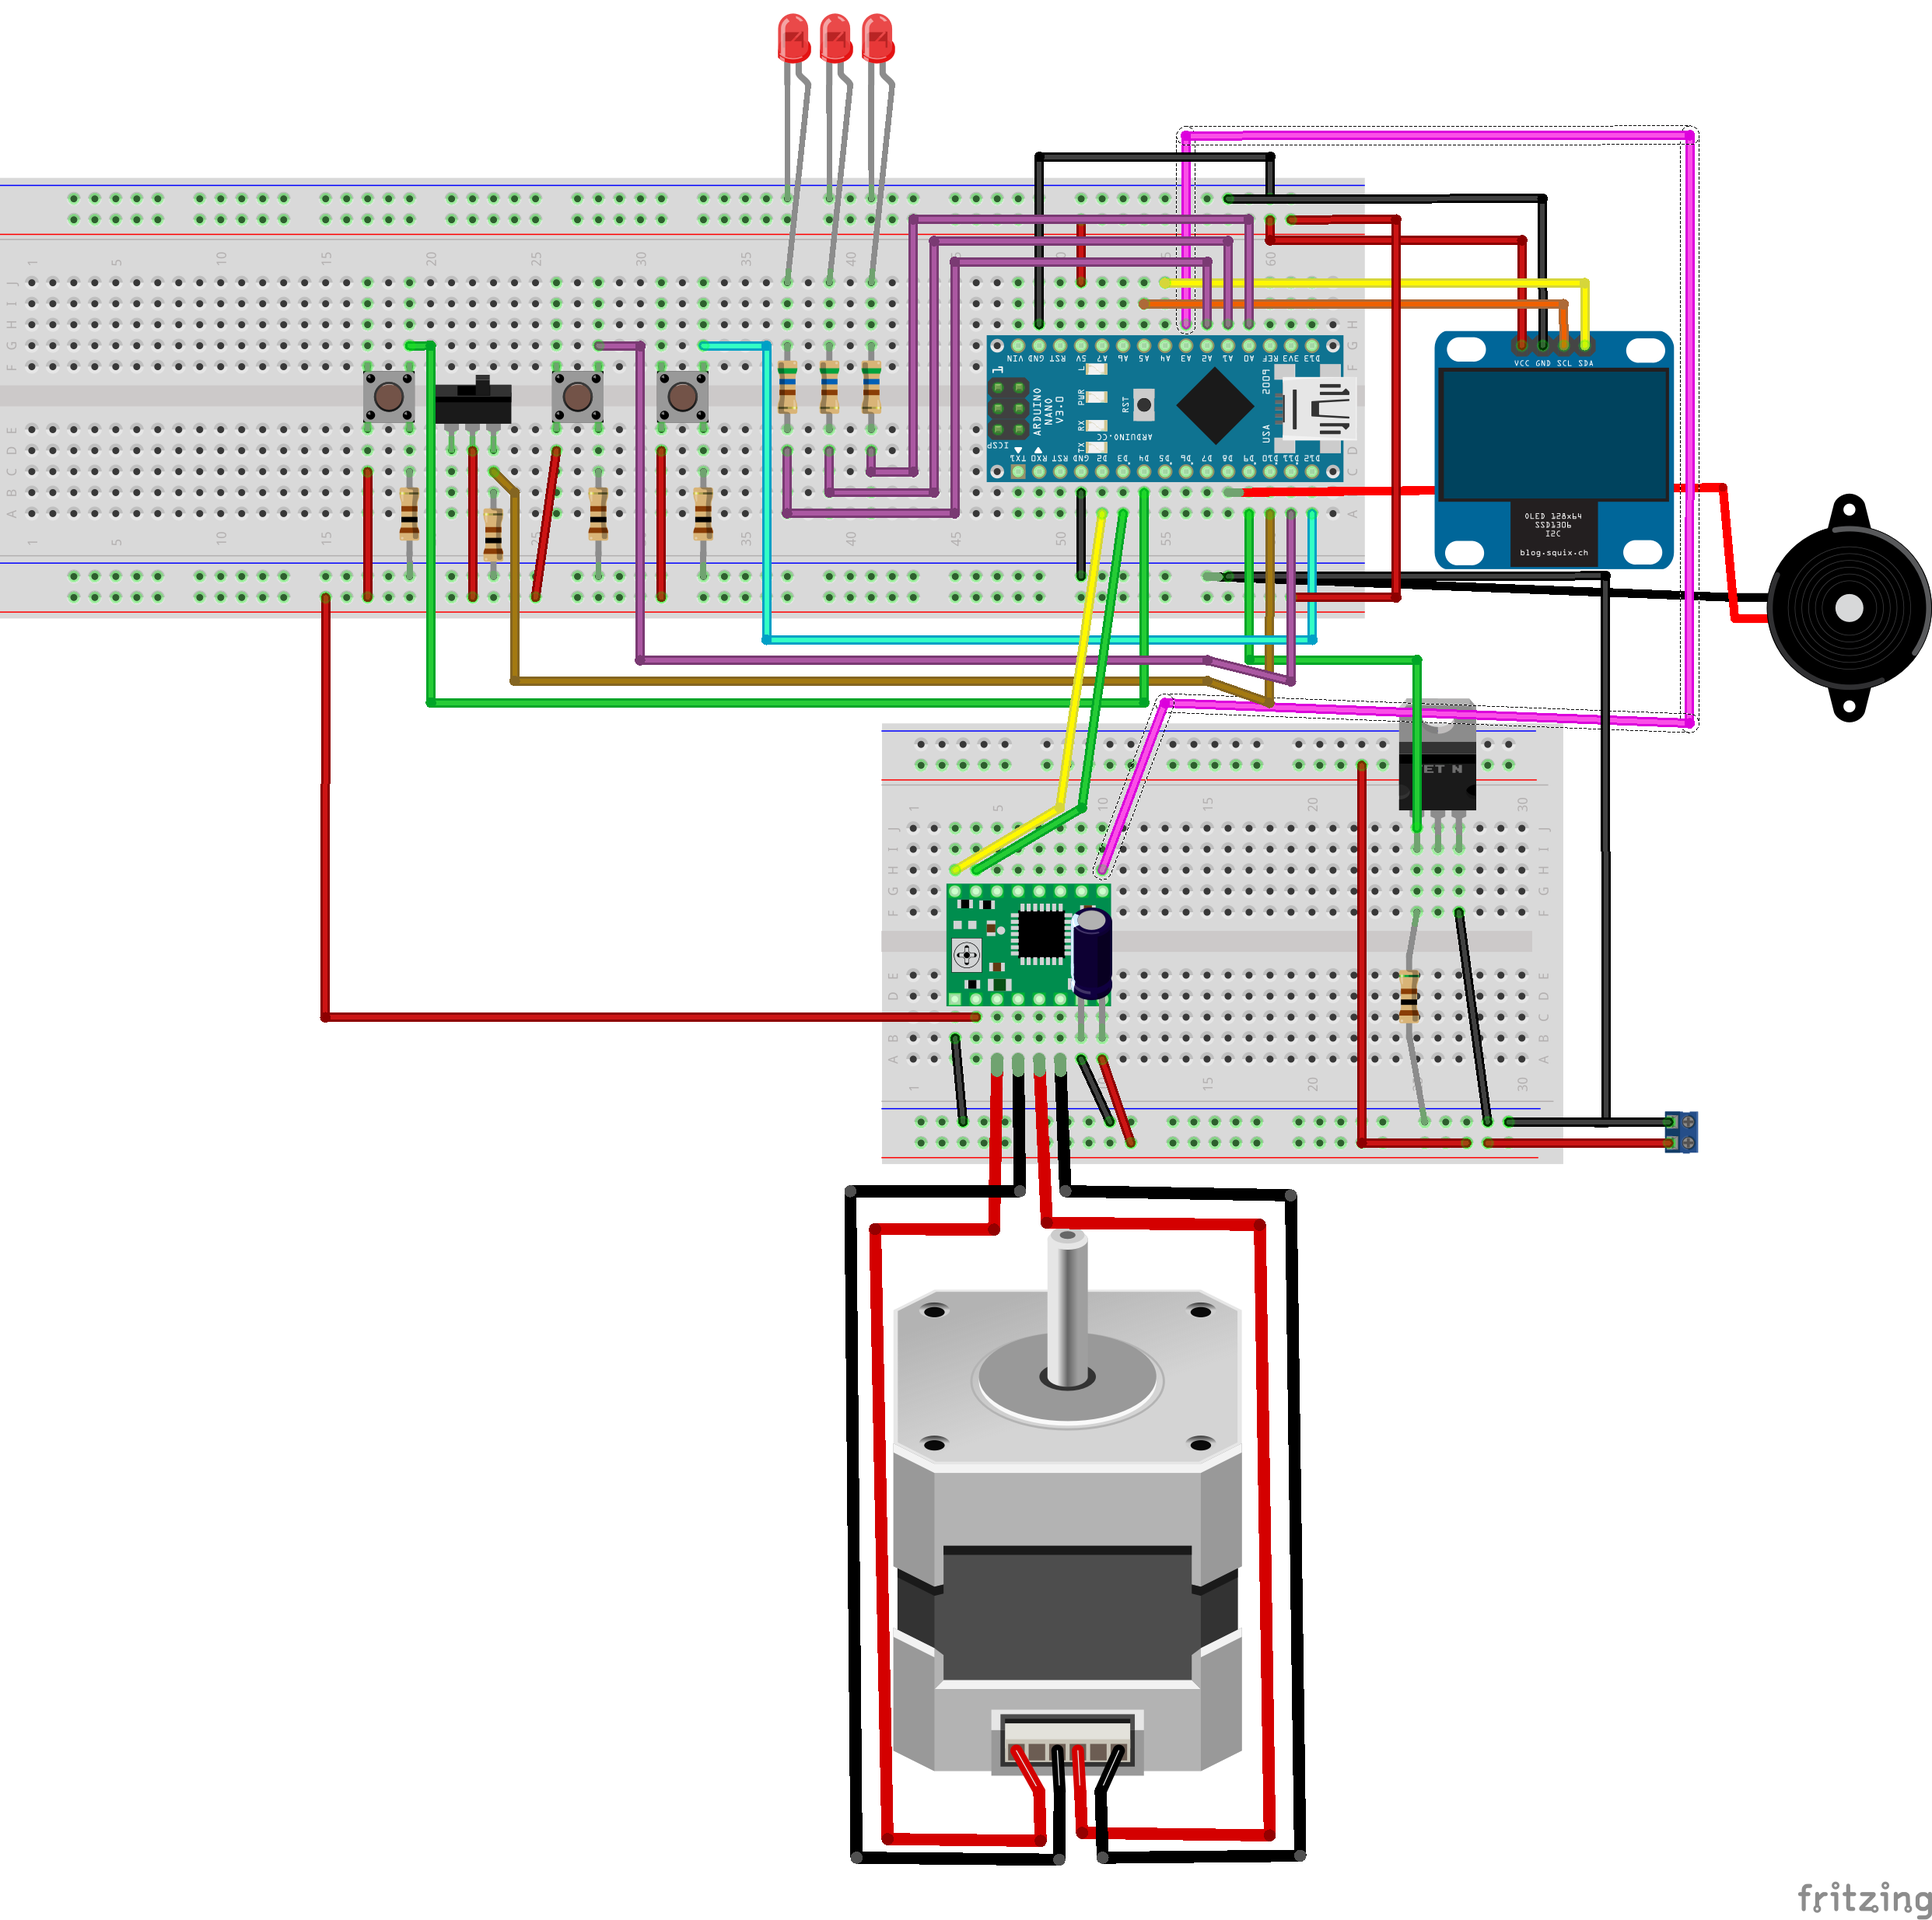
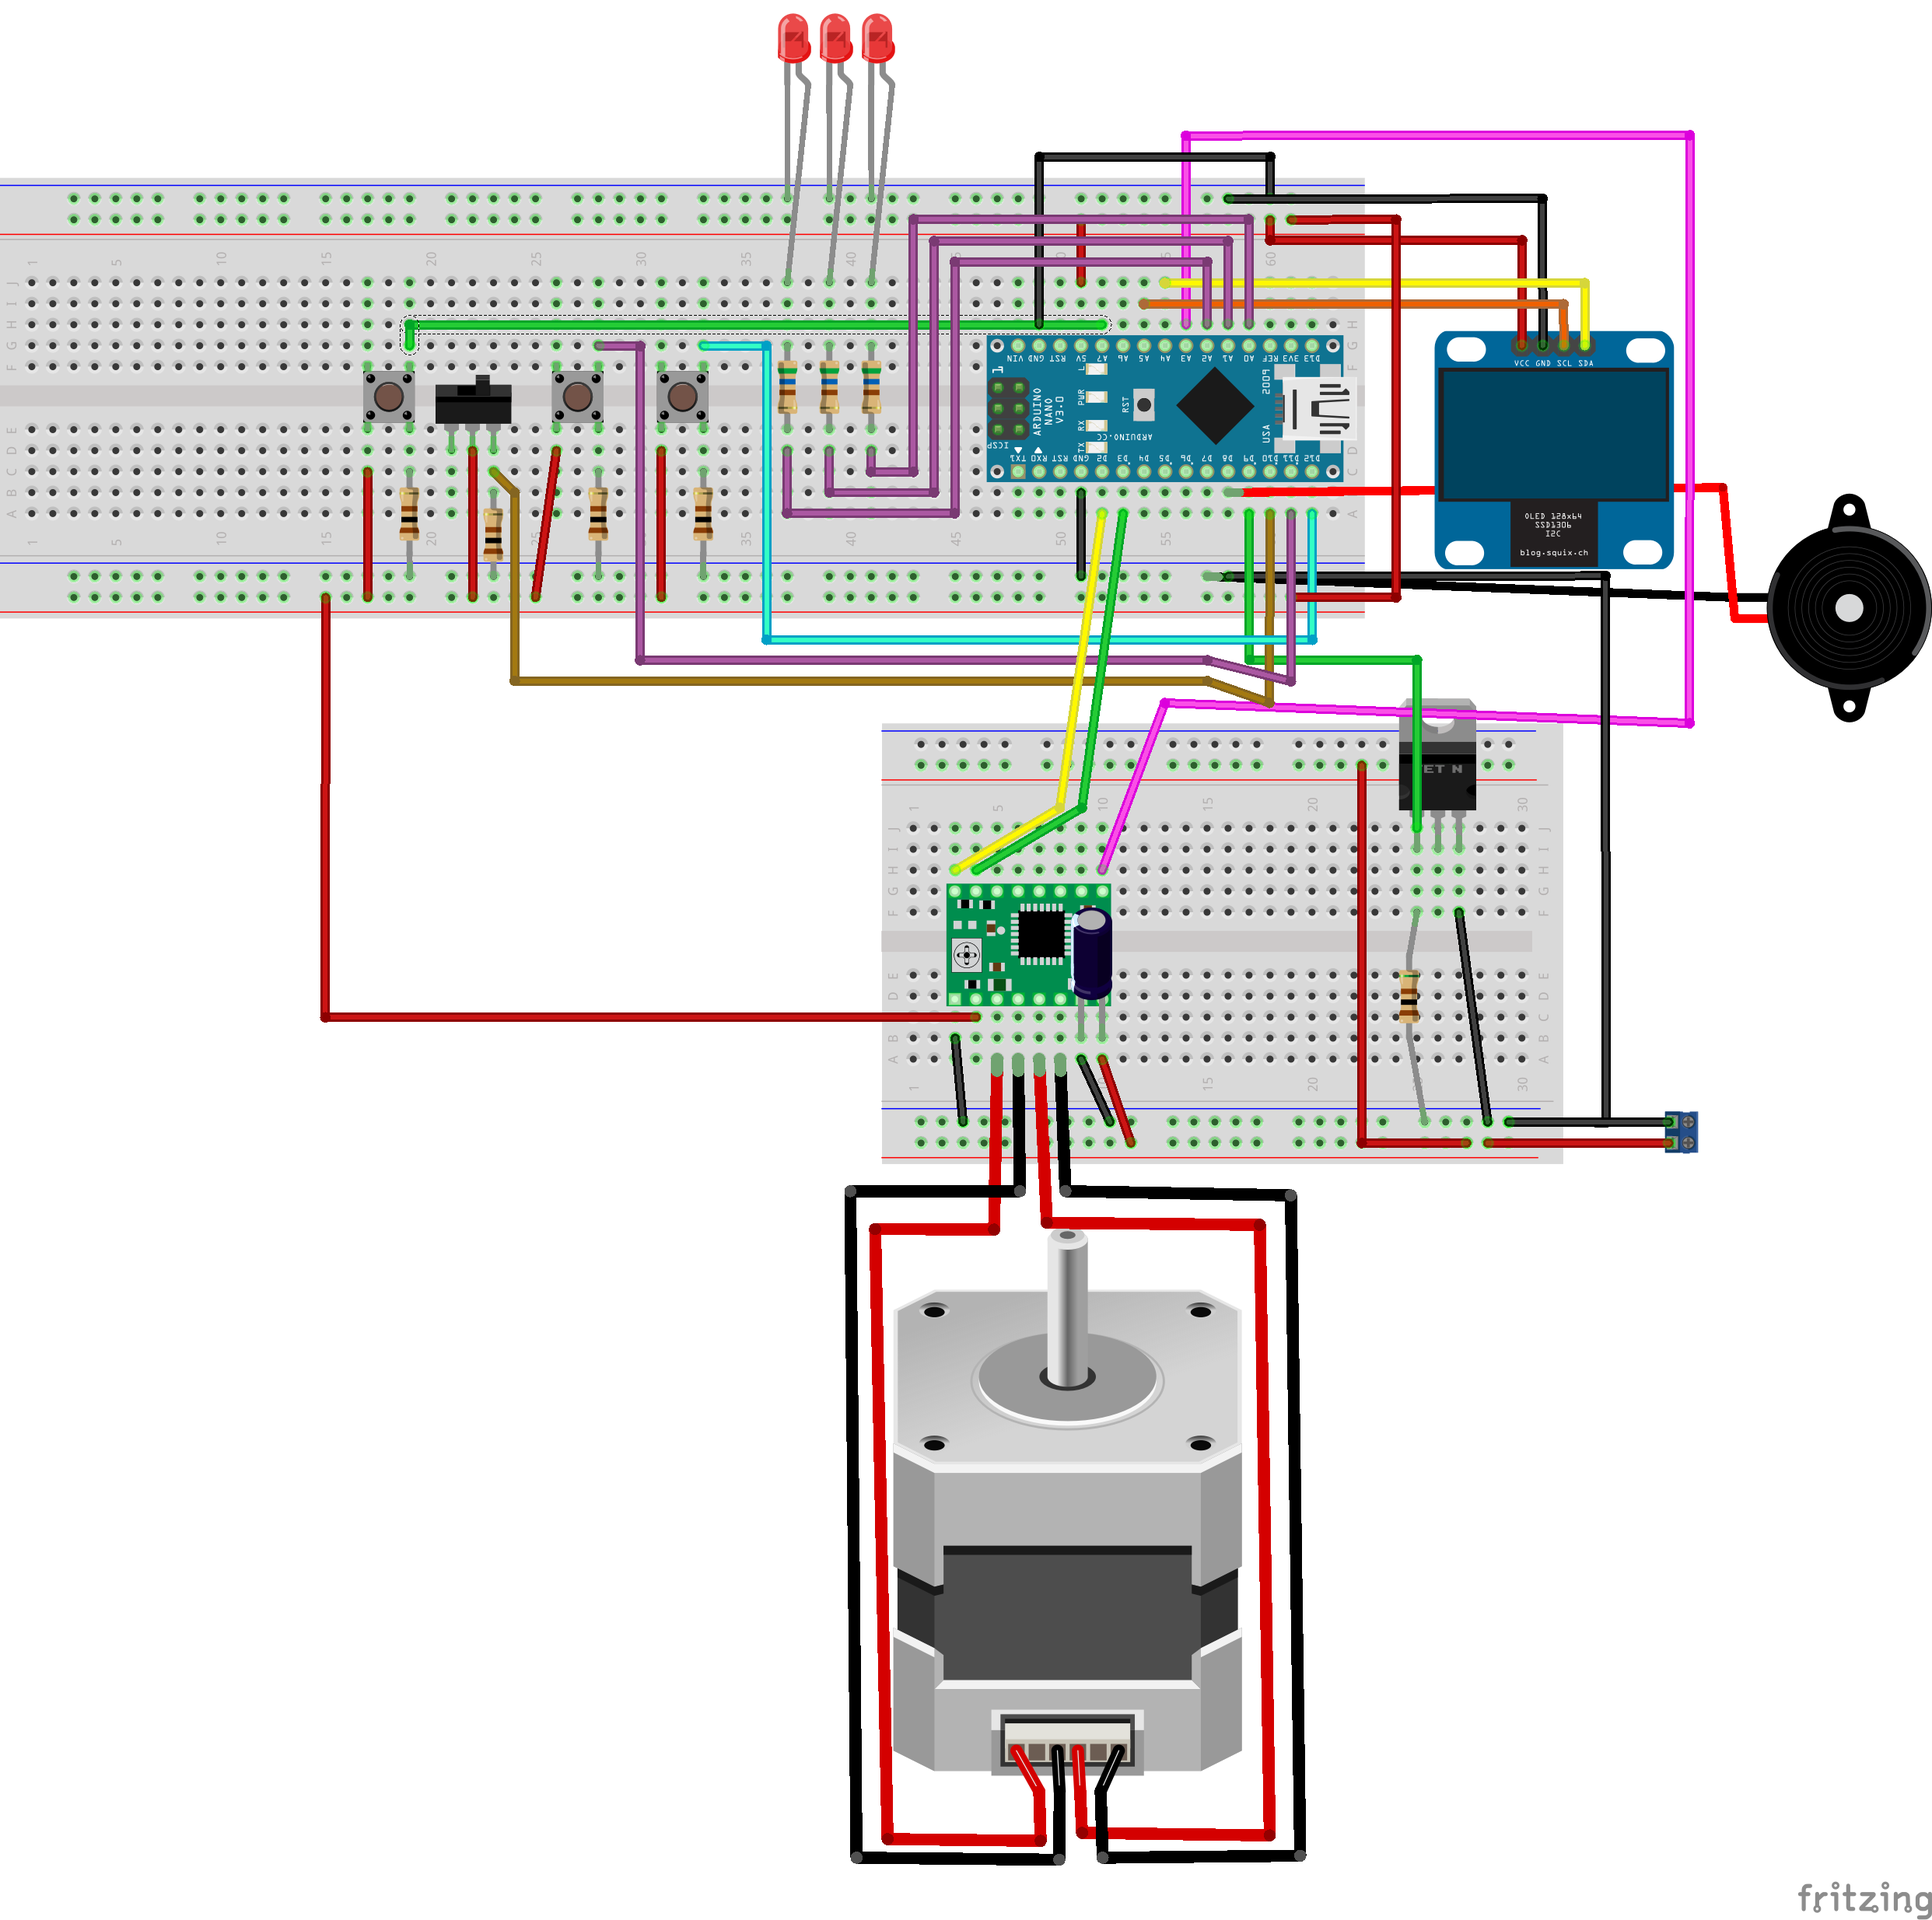
moved time select to analog read. added leds for showing the selected mode. added basic piezo code

Changed region(s): [[0.186, 0.1559, 0.62, 0.3742]]

diff --git a/src/wash_n_cure.cpp b/src/wash_n_cure.cpp
@@ -18,15 +18,18 @@ U8X8_SSD1306_128X64_NONAME_HW_I2C u8x8(/* reset=*/ U8X8_PIN_NONE);
 #define START_PIN     12
 #define STOP_PIN      11
 #define MODE_PIN      10
+#define WASH_MODE_PIN  4
+#define CURE_MODE_PIN  5
 #define UV_LED_PIN     9
 #define DIR_PIN        2
 #define STEP_PIN       3
 #define DRV_ENABLE    A3
+#define SPEAKER        8
 
 #define TIMER0_PIN    A0
 #define TIMER1_PIN    A1
 #define TIMER2_PIN    A2
-#define TIME_SEL_PIN   4
+#define TIME_SEL_PIN  A7
 
 #define UV_ON        255
 #define UV_OFF         0
@@ -79,7 +82,8 @@ void setup(void)
   pinMode(START_PIN, INPUT);
   pinMode(STOP_PIN, INPUT);
   pinMode(MODE_PIN, INPUT);
-  pinMode(TIME_SEL_PIN, INPUT);
+  pinMode(WASH_MODE_PIN, OUTPUT);
+  pinMode(CURE_MODE_PIN, OUTPUT);
   pinMode(UV_LED_PIN, OUTPUT);
   pinMode(DIR_PIN, OUTPUT);
   pinMode(STEP_PIN, OUTPUT);
@@ -87,7 +91,12 @@ void setup(void)
   pinMode(TIMER0_PIN, OUTPUT);
   pinMode(TIMER1_PIN, OUTPUT);
   pinMode(TIMER2_PIN, OUTPUT);
+  pinMode(SPEAKER, OUTPUT);
   digitalWrite(DRV_ENABLE, HIGH); // disable the a4988 driver
+
+  tone(SPEAKER, 3000);
+  delay(1000);
+  noTone(SPEAKER);
 
   oldSelectedMode = IDLE; // not really a mode that can be selected but serves its purpose
 }
@@ -109,12 +118,18 @@ void printModeName() {
   switch (selectedMode) {
     case WASHING:
       u8x8.draw2x2String(0, 1, "Washing");
+      digitalWrite(WASH_MODE_PIN, LOW);
+      digitalWrite(CURE_MODE_PIN, HIGH);
       break;
     case CURING:
       u8x8.draw2x2String(0, 1, "Curing "); // space after needed to clear the display
+      digitalWrite(WASH_MODE_PIN, HIGH);
+      digitalWrite(CURE_MODE_PIN, LOW);
       break;
     default:
       u8x8.draw2x2String(0, 1, "Washing");
+      digitalWrite(WASH_MODE_PIN, LOW);
+      digitalWrite(CURE_MODE_PIN, HIGH);
       break;
   }
 }
@@ -285,9 +300,9 @@ void loop(void)
         break;
     }
 
-    if (digitalRead(TIME_SEL_PIN) == HIGH) {
+    if (analogRead(TIME_SEL_PIN) > 512) {
       changeDuration();
-      while (digitalRead(TIME_SEL_PIN) == HIGH) {} // simple trap to avoid needing debounce
+      while (analogRead(TIME_SEL_PIN) > 512) {} // simple trap to avoid needing debounce
     }
 
   #endif
